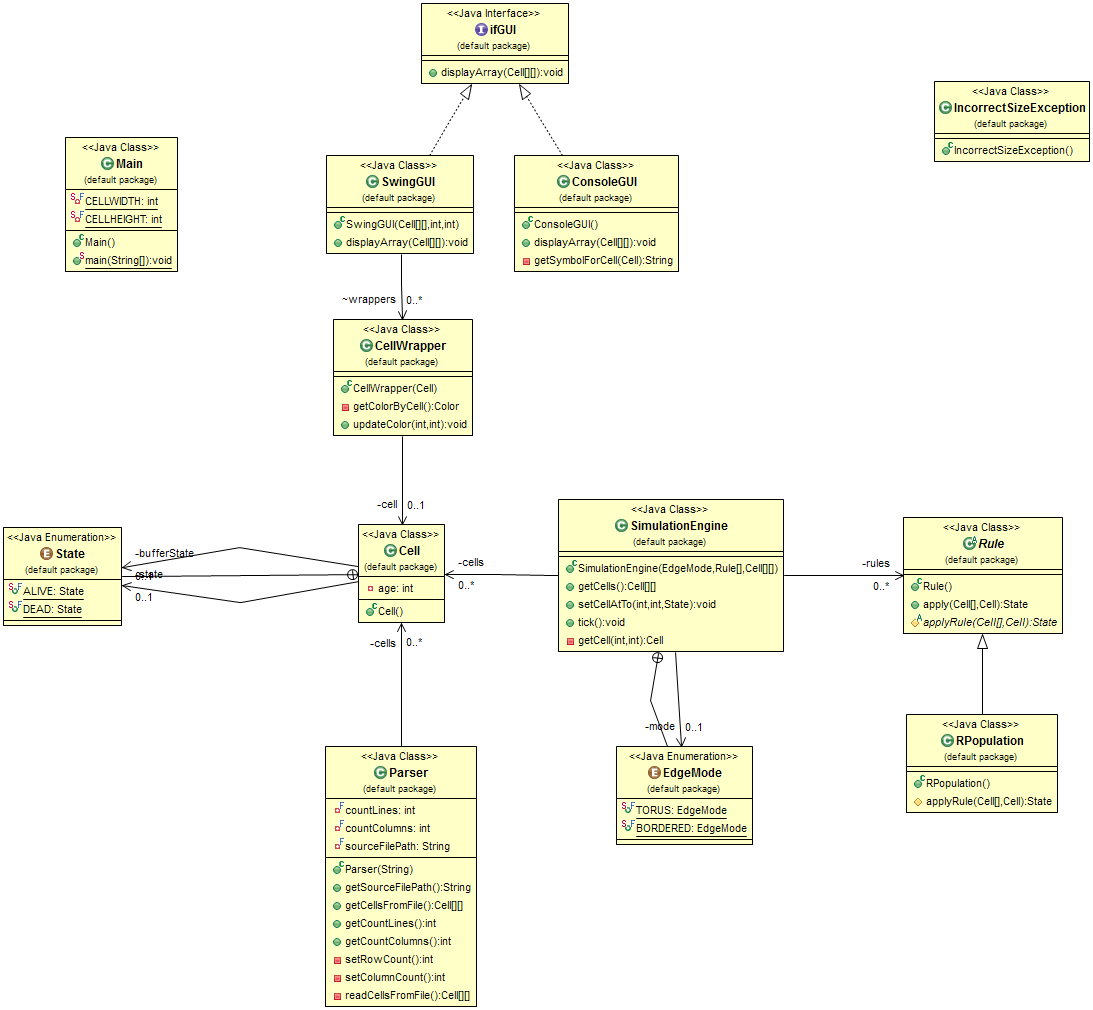
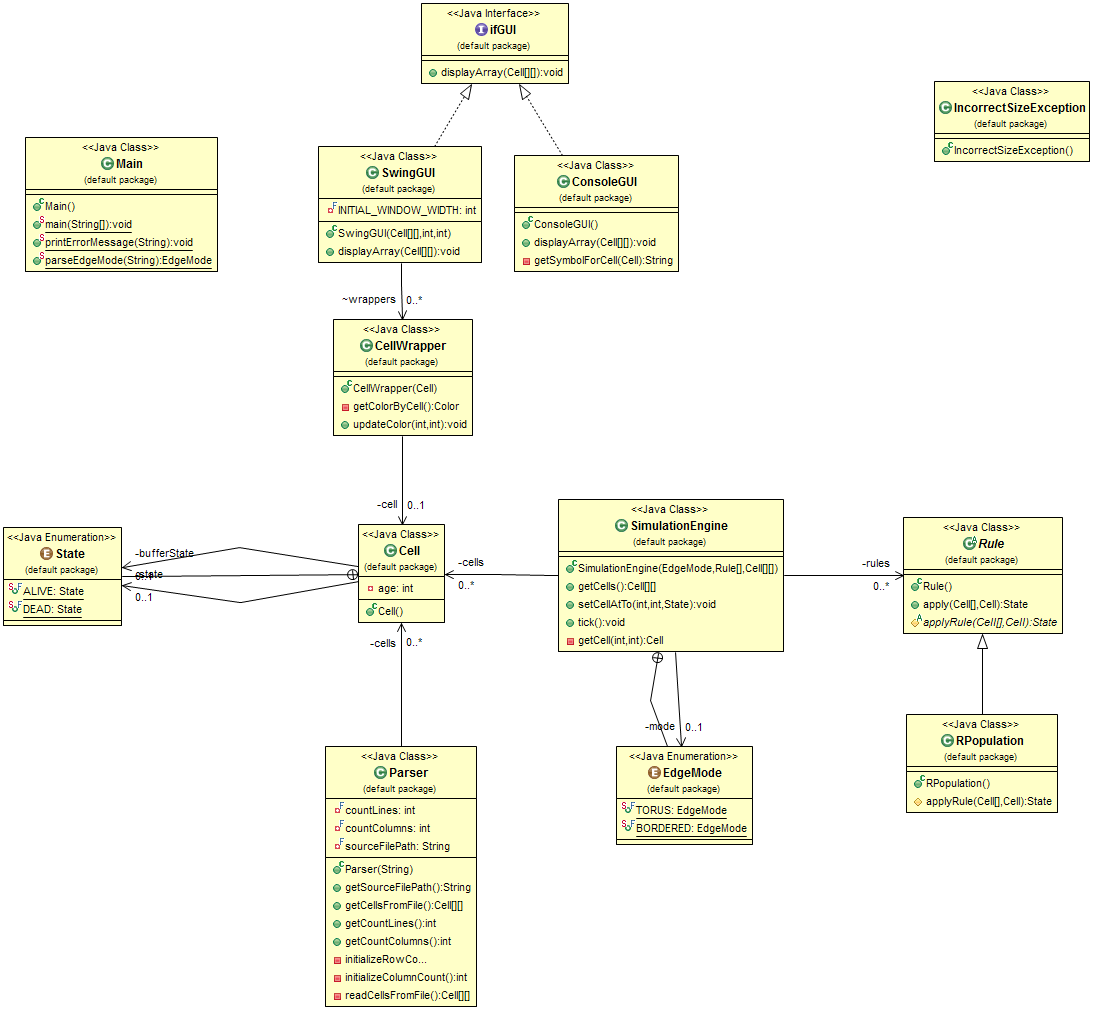
Bugfix: initializeColumnCount line was read twice, so only every second line was checked if it has an appropriate size.

Changed region(s): [[0.0, 0.1228, 0.2177, 0.2762], [0.28, 0.1228, 0.4666, 0.2762], [0.3111, 0.9208, 0.4355, 0.9822]]

diff --git a/src/Parser.java b/src/Parser.java
@@ -14,8 +14,8 @@ public class Parser {
 	public Parser(String sourceFilePath) throws IncorrectCharException,
 			IncorrectSizeException, IOException {
 		this.sourceFilePath = sourceFilePath;
-		this.countLines = setRowCount();
-		this.countColumns = setColumnCount();
+		this.countLines = initializeRowCount();
+		this.countColumns = initializeColumnCount();
 		cells = readCellsFromFile();
 	}
 
@@ -35,7 +35,7 @@ public class Parser {
 		return this.countColumns;
 	}
 
-	private int setRowCount() throws IOException{
+	private int initializeRowCount() throws IOException{
 		int lines = 0;
 			BufferedReader reader = new BufferedReader(new FileReader(
 					this.sourceFilePath));
@@ -48,7 +48,7 @@ public class Parser {
 		return lines;
 	}
 
-	private int setColumnCount() throws IOException, IncorrectSizeException {
+	private int initializeColumnCount() throws IOException, IncorrectSizeException {
 		int countRows[] = new int[this.getCountLines()];
 		int count = 0;
 		String line = null;
@@ -56,16 +56,16 @@ public class Parser {
 		
 			reader = new BufferedReader(new FileReader(this.sourceFilePath));
 			while ((line = reader.readLine()) != null) {
-				line = reader.readLine();
 				line = line.trim();
 				countRows[count] = line.length();
+				
 				if (count != 0) {
 					if ((countRows[count - 1]) != countRows[count]) {
 						reader.close();
 						throw new IncorrectSizeException();
 					}
 				}
-				count += 1;
+				count++;
 			}
 			reader.close();
 		return countRows[0];
